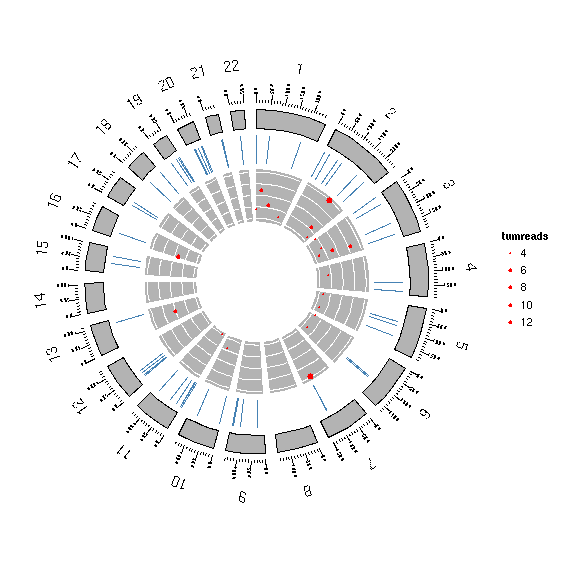
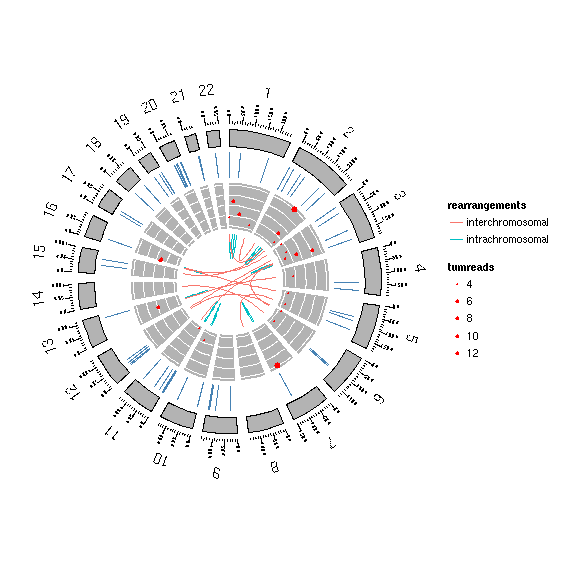
up

diff --git a/_posts/2012-04-12-circle.md b/_posts/2012-04-12-circle.md
@@ -346,17 +346,6 @@ to specify `linked.to` to the column that contain end point of the data.
 {% highlight r %}
 p <- p + layout_circle(gr.crc1, geom = "link", linked.to = "to.gr", 
     aes(color = rearrangements), radius = 10, trackWidth = 1)
-{% endhighlight %}
-
-
-
-{% highlight text %}
-## Error: could not find function "bezier"
-{% endhighlight %}
-
-
-
-{% highlight r %}
 p
 {% endhighlight %}
 
@@ -391,13 +380,7 @@ autoplot(grl, args = list(list(geom = "link", linked.to = "to.gr",
     F, F)) + scale_size(range = c(1, 2.5))
 {% endhighlight %}
 
-
-
-{% highlight text %}
-## Error: could not find function "bezier"
-{% endhighlight %}
-
-
+![plot of chunk autoplot](https://github.com/tengfei/ggbio/raw/gh-pages/_posts/2012-04-12-circle-autoplot.png) 
 
 
 ## Step 5: Complex arragnment of plots <a id = "s5"></a>
@@ -415,27 +398,10 @@ names(cols) <- c("interchromosomal", "intrachromosomal")
 p0 <- ggplot() + layout_circle(gr.crc1, geom = "link", linked.to = "to.gr", 
     aes(color = rearrangements), radius = 7.1) + layout_circle(hg19Ideo, geom = "ideo", 
     trackWidth = 1.5, color = "gray70", fill = "gray70") + scale_color_manual(values = cols)
-{% endhighlight %}
-
-
-
-{% highlight text %}
-## Error: could not find function "bezier"
-{% endhighlight %}
-
-
-
-{% highlight r %}
 p0
 {% endhighlight %}
 
-
-
-{% highlight text %}
-## Error: object 'p0' not found
-{% endhighlight %}
-
-
+![plot of chunk single-arr](https://github.com/tengfei/ggbio/raw/gh-pages/_posts/2012-04-12-circle-single-arr.png) 
 
 
 We need to get one legend for all of them, and put it on the right, ok, that's a
@@ -444,17 +410,6 @@ little tricky, we can first store the legend from the plot we just created.
 
 {% highlight r %}
 g = ggplotGrob(p0)
-{% endhighlight %}
-
-
-
-{% highlight text %}
-## Error: object 'p0' not found
-{% endhighlight %}
-
-
-
-{% highlight r %}
 gg = editGrob(getGrob(g, gPath("guide-box"), grep = TRUE), vp = viewport())
 {% endhighlight %}
 
